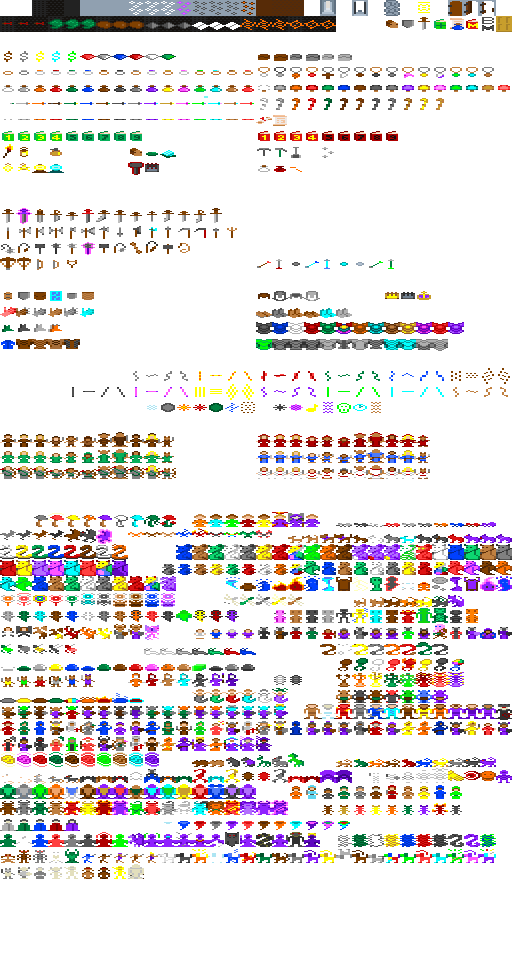
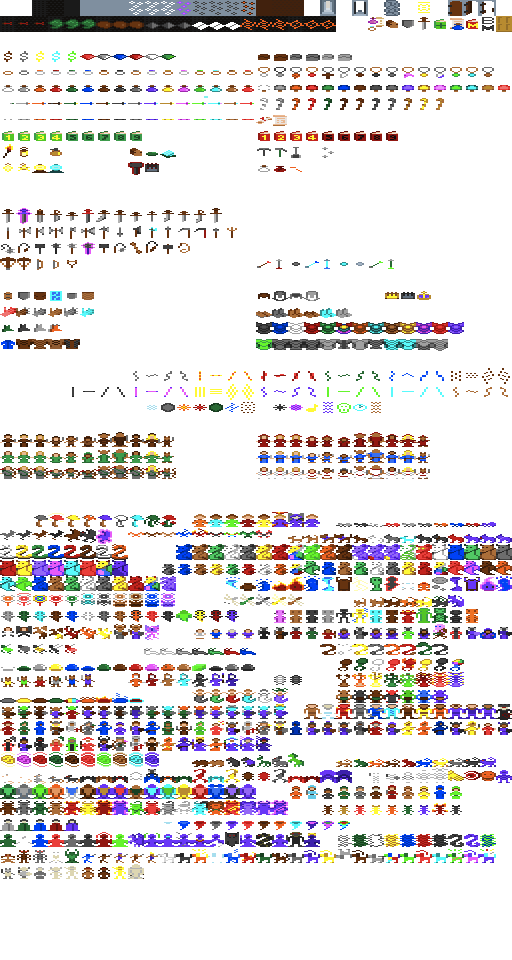
Fix #146: Graphics mode now uses a special tile for 'many items'.  Thanks to thapper on the forum for the tiles!

diff --git a/src/object/obj-util.c b/src/object/obj-util.c
@@ -3423,12 +3423,8 @@ object_kind *lookup_kind(int tval, int sval)
 {
 	int k;
 
-	/* This function should not get called with tval == 0,
-	 * since gaps in the object list have entries in k_info[]. */
-	assert(tval);
-
 	/* Look for it */
-	for (k = 1; k < z_info->k_max; k++)
+	for (k = 0; k < z_info->k_max; k++)
 	{
 		object_kind *kind = &k_info[k];
 		if (kind->tval == tval && kind->sval == sval)
